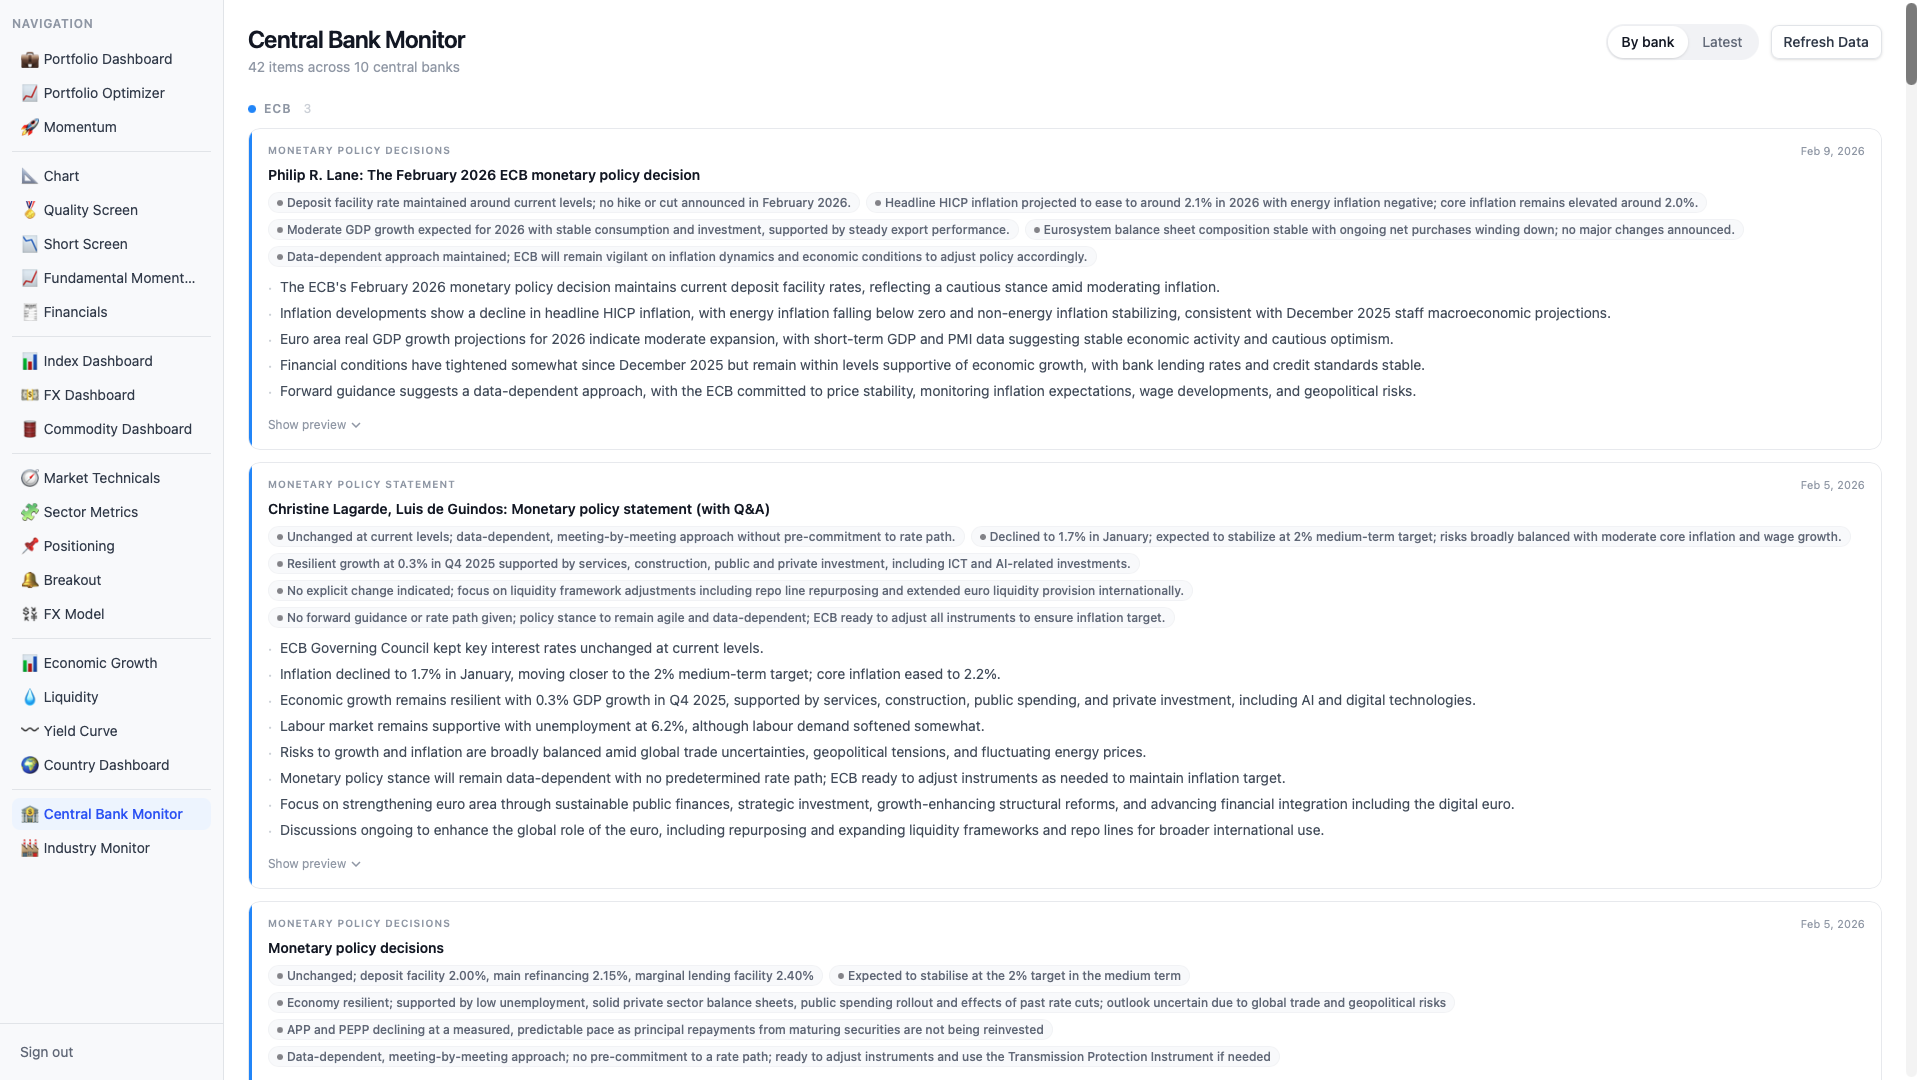
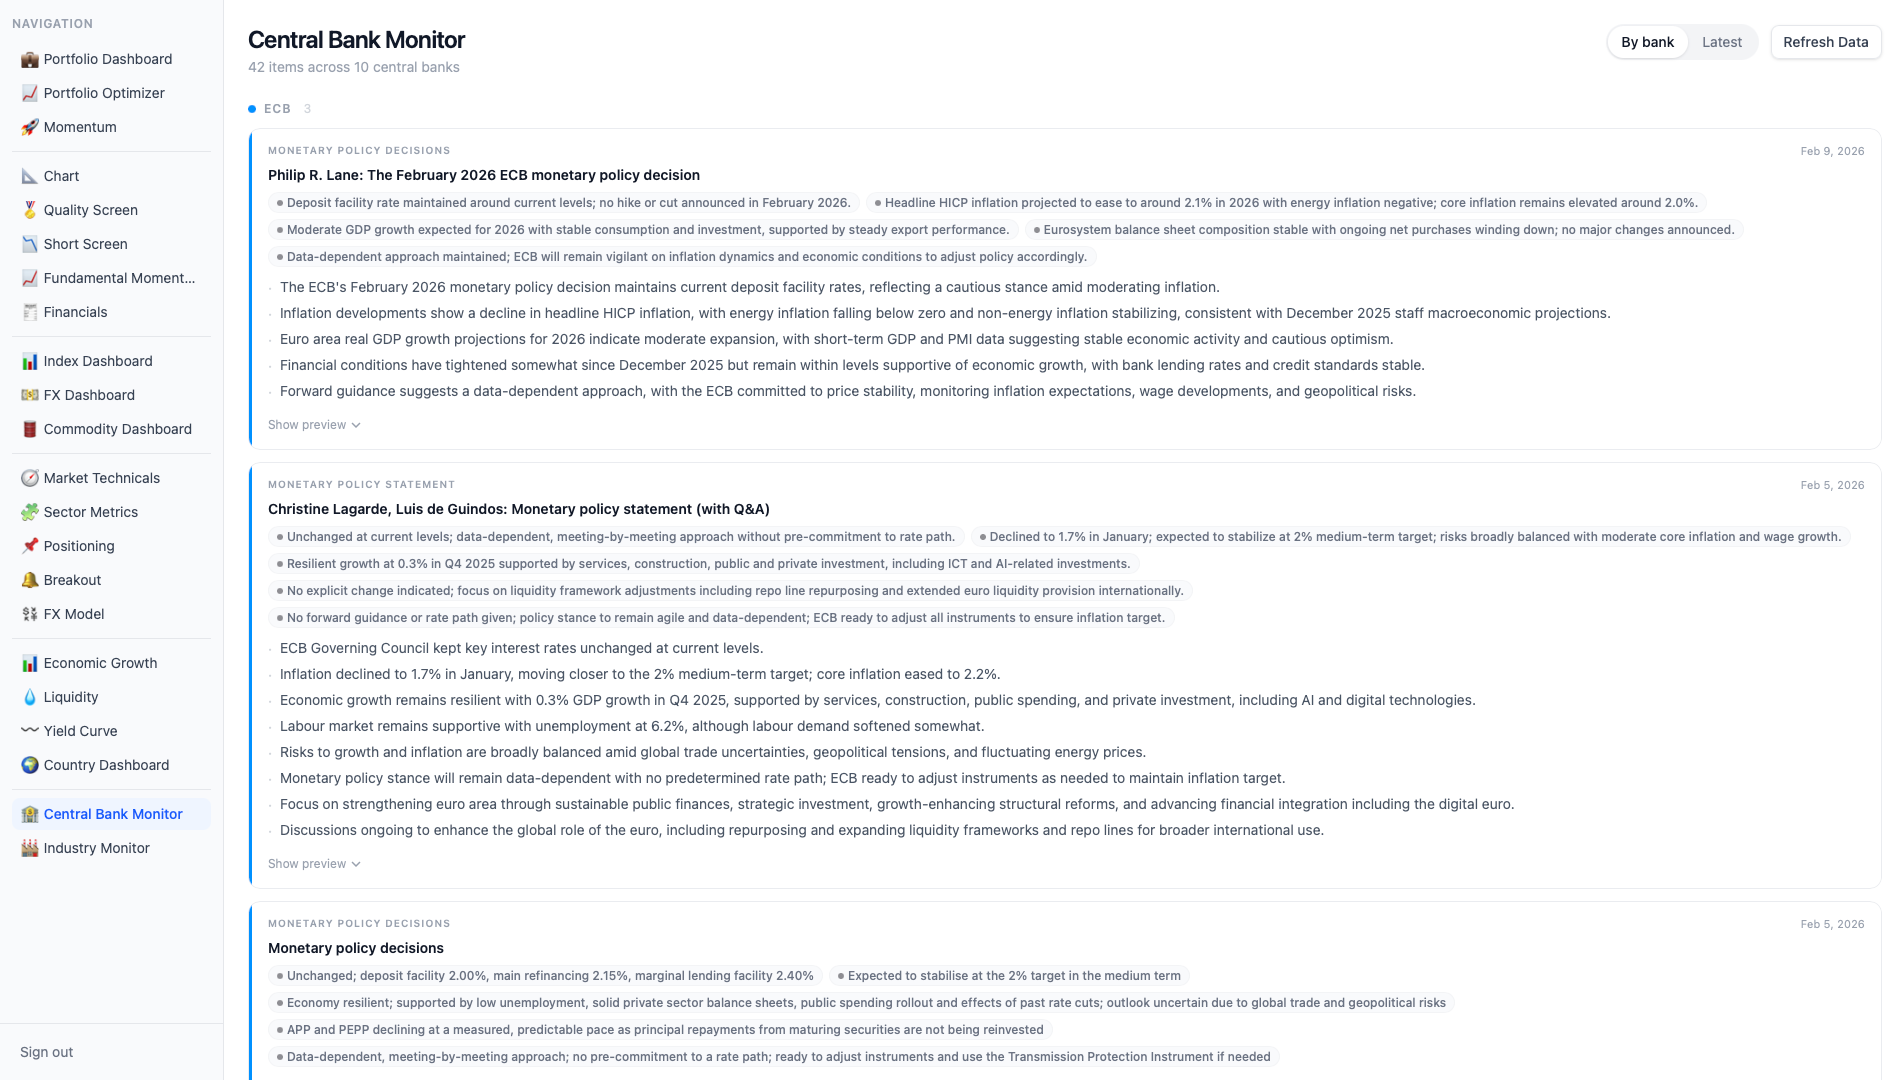
Update GDP

diff --git a/frontend/src/pages/LoginPage.tsx b/frontend/src/pages/LoginPage.tsx
@@ -2,33 +2,78 @@ import { type FormEvent, useState } from "react"
 import { useNavigate } from "react-router-dom"
 import { useAuth } from "@/contexts/AuthContext"
 
+import portfolioImg from "@/assets/portfolio.png"
+import centralBankImg from "@/assets/central-bank-monitor.png"
+import economicGrowthImg from "@/assets/economic-growth.png"
+import industryImg from "@/assets/industry.png"
+
+const features = [
+  {
+    title: "Portfolio Dashboard",
+    description:
+      "Track your entire portfolio at a glance — real-time P&L, individual position charts, and performance across daily, weekly, and monthly timeframes.",
+    image: portfolioImg,
+  },
+  {
+    title: "Economic Growth Dashboard",
+    description:
+      "Monitor the macro cycle in real time — commodity trends, regional growth signals, leading indicators, and cross-asset momentum to gauge where the economy is heading.",
+    image: economicGrowthImg,
+  },
+  {
+    title: "Industry Monitor",
+    description:
+      "Drill into sector-level fundamentals with earnings call transcripts, company-level financial snapshots, and AI-generated summaries across housing, energy, trucking, and more.",
+    image: industryImg,
+  },
+  {
+    title: "Central Bank Monitor",
+    description:
+      "Stay ahead of monetary policy — AI-generated summaries of central bank decisions, rate changes, and GDP forecasts from the Fed, ECB, and more.",
+    image: centralBankImg,
+  },
+]
+
+function FeatureShowcase() {
+  return (
+    <div className="mx-auto w-full max-w-5xl px-6 pb-24">
+      <div className="mb-12 text-center">
+        <h2 className="text-2xl font-semibold text-gray-900">
+          Everything you need to stay on top of the markets
+        </h2>
+        <p className="mt-2 text-sm text-gray-500">
+          Professional-grade analytics, all in one place.
+        </p>
+      </div>
+
+      <div className="flex flex-col gap-20">
+        {features.map((feature, i) => (
+          <div
+            key={feature.title}
+            className={`flex flex-col items-center gap-8 md:flex-row ${i % 2 === 1 ? "md:flex-row-reverse" : ""}`}
+          >
+            <img
+              src={feature.image}
+              alt={feature.title}
+              className="w-full rounded-xl border border-gray-200 shadow-sm md:w-3/5"
+            />
+            <div className="flex flex-col gap-2 md:w-2/5">
+              <h3 className="text-lg font-semibold text-gray-900">{feature.title}</h3>
+              <p className="text-sm leading-relaxed text-gray-500">{feature.description}</p>
+            </div>
+          </div>
+        ))}
+      </div>
+    </div>
+  )
+}
+
 export function LoginPage() {
   const { login, mode } = useAuth()
   const navigate = useNavigate()
   const [password, setPassword] = useState("")
   const [error, setError] = useState<string | null>(null)
   const [loading, setLoading] = useState(false)
-
-  if (mode === "cloudflare") {
-    return (
-      <div className="flex min-h-screen items-center justify-center bg-gray-50">
-        <div className="w-full max-w-sm rounded-xl border border-gray-200 bg-white p-8 shadow-sm">
-          <h1 className="mb-1 text-xl font-semibold text-gray-900">Market Dashboard</h1>
-          <p className="mb-6 text-sm text-gray-500">
-            Sign-in is handled by Cloudflare Access.
-          </p>
-
-          <button
-            type="button"
-            onClick={() => login("")}
-            className="w-full rounded-lg bg-blue-500 px-4 py-2 text-sm font-semibold text-white shadow-sm transition-colors hover:bg-blue-600"
-          >
-            Continue
-          </button>
-        </div>
-      </div>
-    )
-  }
 
   async function handleSubmit(e: FormEvent) {
     e.preventDefault()
@@ -45,42 +90,63 @@ export function LoginPage() {
   }
 
   return (
-    <div className="flex min-h-screen items-center justify-center bg-gray-50">
-      <div className="w-full max-w-sm rounded-xl border border-gray-200 bg-white p-8 shadow-sm">
-        <h1 className="mb-1 text-xl font-semibold text-gray-900">Market Dashboard</h1>
-        <p className="mb-6 text-sm text-gray-500">Enter your password to continue.</p>
+    <div className="min-h-screen bg-gray-50">
+      <div className="flex flex-col items-center pt-24 pb-16">
+        <div className="w-full max-w-sm rounded-xl border border-gray-200 bg-white p-8 shadow-sm">
+          <h1 className="mb-1 text-xl font-semibold text-gray-900">Market Dashboard</h1>
 
-        <form onSubmit={handleSubmit} className="flex flex-col gap-4">
-          <div className="flex flex-col gap-1.5">
-            <label htmlFor="password" className="text-sm font-medium text-gray-700">
-              Password
-            </label>
-            <input
-              id="password"
-              type="password"
-              autoComplete="current-password"
-              required
-              value={password}
-              onChange={e => setPassword(e.target.value)}
-              className="rounded-lg border border-gray-200 px-3 py-2 text-sm outline-none focus-visible:ring-2 focus-visible:ring-blue-500 ring-offset-white"
-            />
-          </div>
+          {mode === "cloudflare" ? (
+            <>
+              <p className="mb-6 text-sm text-gray-500">
+                Sign-in is handled by Cloudflare Access.
+              </p>
+              <button
+                type="button"
+                onClick={() => login("")}
+                className="w-full rounded-lg bg-blue-500 px-4 py-2 text-sm font-semibold text-white shadow-sm transition-colors hover:bg-blue-600"
+              >
+                Continue
+              </button>
+            </>
+          ) : (
+            <>
+              <p className="mb-6 text-sm text-gray-500">Enter your password to continue.</p>
+              <form onSubmit={handleSubmit} className="flex flex-col gap-4">
+                <div className="flex flex-col gap-1.5">
+                  <label htmlFor="password" className="text-sm font-medium text-gray-700">
+                    Password
+                  </label>
+                  <input
+                    id="password"
+                    type="password"
+                    autoComplete="current-password"
+                    required
+                    value={password}
+                    onChange={e => setPassword(e.target.value)}
+                    className="rounded-lg border border-gray-200 px-3 py-2 text-sm outline-none focus-visible:ring-2 focus-visible:ring-blue-500 ring-offset-white"
+                  />
+                </div>
 
-          {error && (
-            <p className="rounded-xl border border-red-200 bg-red-50 px-3 py-2 text-sm text-red-700">
-              {error}
-            </p>
+                {error && (
+                  <p className="rounded-xl border border-red-200 bg-red-50 px-3 py-2 text-sm text-red-700">
+                    {error}
+                  </p>
+                )}
+
+                <button
+                  type="submit"
+                  disabled={loading}
+                  className="rounded-lg bg-blue-500 px-4 py-2 text-sm font-semibold text-white shadow-sm transition-colors hover:bg-blue-600 disabled:opacity-50"
+                >
+                  {loading ? "Signing in..." : "Sign in"}
+                </button>
+              </form>
+            </>
           )}
-
-          <button
-            type="submit"
-            disabled={loading}
-            className="rounded-lg bg-blue-500 px-4 py-2 text-sm font-semibold text-white shadow-sm transition-colors hover:bg-blue-600 disabled:opacity-50"
-          >
-            {loading ? "Signing in..." : "Sign in"}
-          </button>
-        </form>
+        </div>
       </div>
+
+      <FeatureShowcase />
     </div>
   )
 }

diff --git a/macro/country_dashboard/country_dashboard.py b/macro/country_dashboard/country_dashboard.py
@@ -23,7 +23,7 @@ import sys
 import warnings
 from datetime import datetime
 from pathlib import Path
-from typing import Dict, List
+from typing import Any, Dict, List
 
 LOGGER = logging.getLogger(__name__)
 
@@ -248,6 +248,9 @@ COUNTRIES = {
                 "key": "JPN.B1_GE.GYSA.Q",
                 "transform": "none",
             },
+            {"id": "JPNGDPRQPSMEI", "transform": "none", "max_age_days": 240},
+            {"id": "NAEXKP01JPQ661S", "transform": "yoy4", "max_age_days": 240},
+            {"id": "NAEXKP01JPQ652S", "transform": "yoy4", "max_age_days": 240},
         ],
     },
     "France": {
@@ -781,29 +784,125 @@ def _fetch_oecd_series(
     resp.raise_for_status()
     data = resp.json()
 
-    structure = data["structure"]
-    dataset_obj = data["dataSets"][0]
+    if not isinstance(data, dict):
+        raise RuntimeError(
+            f"OECD {dataset}/{key}: unexpected response type {type(data).__name__}"
+        )
 
-    time_dim = next(
-        d for d in structure["dimensions"]["observation"]
-        if d["id"] == "TIME_PERIOD"
+    # OECD has returned multiple SDMX-JSON variants over time.
+    root_candidates: List[Dict[str, Any]] = [data]
+    nested_data = data.get("data")
+    if isinstance(nested_data, dict):
+        root_candidates.append(nested_data)
+
+    error_message = (
+        data.get("error_message")
+        or data.get("error")
+        or data.get("message")
     )
-    time_values = [v["id"] for v in time_dim["values"]]
+    if error_message:
+        raise RuntimeError(f"OECD {dataset}/{key}: {error_message}")
 
-    series_key = next(iter(dataset_obj["series"]))
-    observations = dataset_obj["series"][series_key]["observations"]
+    dataset_obj: Dict[str, Any] = {}
+    for root in root_candidates:
+        data_sets = root.get("dataSets")
+        if isinstance(data_sets, list) and data_sets and isinstance(data_sets[0], dict):
+            dataset_obj = data_sets[0]
+            break
+    if not dataset_obj:
+        raise RuntimeError(
+            f"OECD {dataset}/{key}: missing dataSets in response keys={list(data.keys())}"
+        )
+
+    time_values: List[str] = []
+    for root in root_candidates:
+        structure = root.get("structure")
+        if isinstance(structure, dict):
+            dims = structure.get("dimensions")
+            if isinstance(dims, dict):
+                obs_dims = dims.get("observation")
+                if isinstance(obs_dims, list):
+                    for dim in obs_dims:
+                        if isinstance(dim, dict) and dim.get("id") == "TIME_PERIOD":
+                            values = dim.get("values")
+                            if isinstance(values, list):
+                                parsed = [
+                                    str(v["id"])
+                                    for v in values
+                                    if isinstance(v, dict) and v.get("id") is not None
+                                ]
+                                if parsed:
+                                    time_values = parsed
+                                    break
+                    if time_values:
+                        break
+
+    series_map = dataset_obj.get("series")
+    observations: Dict[str, Any] = {}
+    if isinstance(series_map, dict):
+        for series_obj in series_map.values():
+            if isinstance(series_obj, dict):
+                obs = series_obj.get("observations")
+                if isinstance(obs, dict) and obs:
+                    observations = obs
+                    break
+    if not observations:
+        dataset_obs = dataset_obj.get("observations")
+        if isinstance(dataset_obs, dict):
+            observations = dataset_obs
+    if not observations:
+        raise RuntimeError(f"OECD {dataset}/{key}: missing observations")
+
+    def _parse_period(period: str) -> pd.Timestamp | None:
+        text = str(period).strip()
+        m = re.fullmatch(r"(\d{4})-Q([1-4])", text)
+        if not m:
+            m = re.fullmatch(r"(\d{4})Q([1-4])", text)
+        if m:
+            year, q = int(m.group(1)), int(m.group(2))
+            return pd.Period(year=year, quarter=q, freq="Q").to_timestamp(how="end")
+        ts = pd.to_datetime(text, errors="coerce")
+        if pd.isna(ts):
+            return None
+        return pd.Timestamp(ts)
 
     records: Dict[pd.Timestamp, float] = {}
-    for idx_str, obs in observations.items():
-        period = time_values[int(idx_str)]
-        value = obs[0]
-        if value is not None:
-            ts = (
-                pd.Period(period, freq="Q").to_timestamp(how="end")
-                if "Q" in period
-                else pd.Timestamp(period)
-            )
+    for obs_key, obs in observations.items():
+        obs_key_text = str(obs_key)
+        period = None
+        if time_values:
+            idx_token = obs_key_text.split(":")[-1]
+            try:
+                period = time_values[int(idx_token)]
+            except (ValueError, IndexError):
+                period = None
+        if period is None and re.fullmatch(r"\d{4}(-Q[1-4]|Q[1-4]|-\d{2}(-\d{2})?)", obs_key_text):
+            period = obs_key_text
+
+        value = None
+        if isinstance(obs, (list, tuple)):
+            value = obs[0] if obs else None
+        elif isinstance(obs, dict):
+            value = obs.get("OBS_VALUE")
+            if value is None:
+                value = obs.get("value")
+            if value is None:
+                value = obs.get("0")
+        else:
+            value = obs
+
+        if period is None or value is None:
+            continue
+        ts = _parse_period(period)
+        if ts is None:
+            continue
+        try:
             records[ts] = float(value)
+        except (TypeError, ValueError):
+            continue
+
+    if not records:
+        raise RuntimeError(f"OECD {dataset}/{key}: unable to parse observations")
 
     series = pd.Series(records).sort_index().dropna()
     series.index = pd.to_datetime(series.index)
